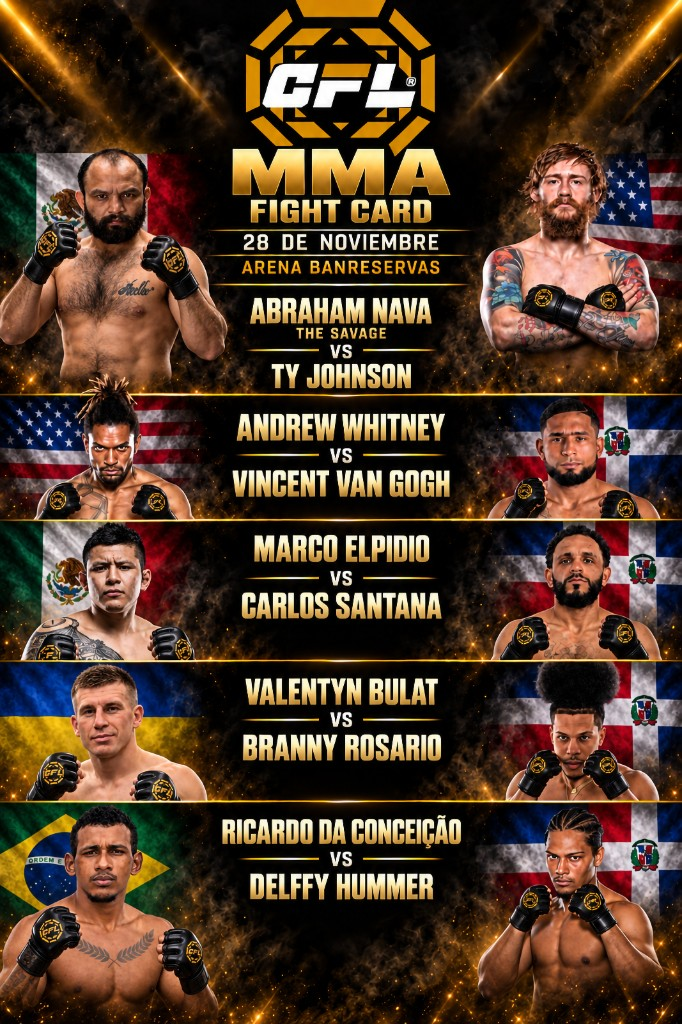
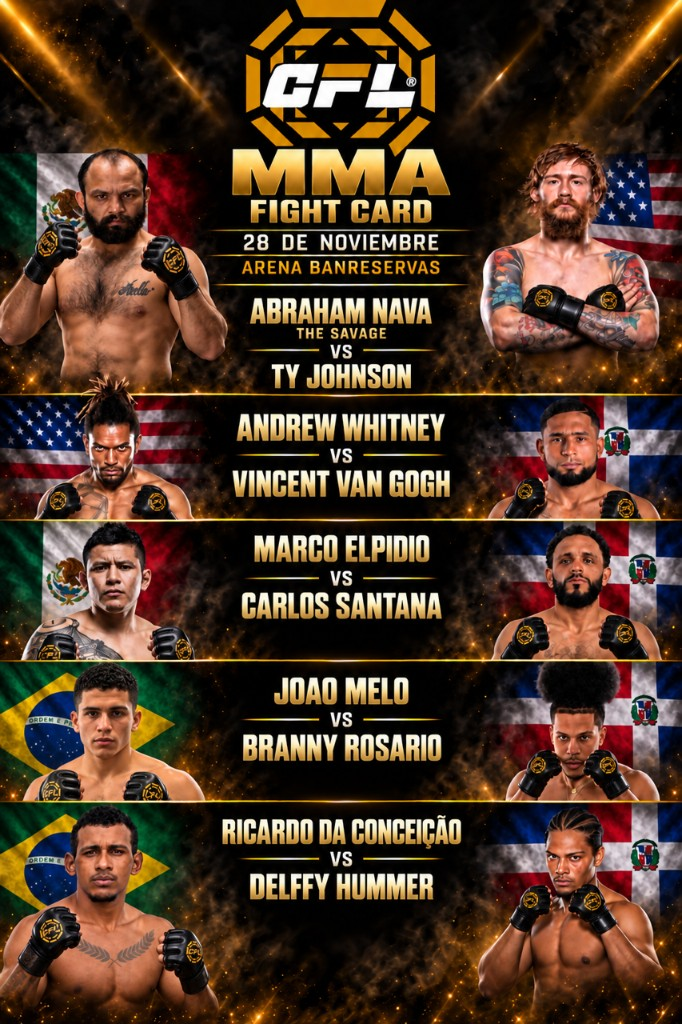
Refresh the public roster and MMA fight cards.
Drop Thomas, Elvis, and Valentyn; add Tommy Hyde, Kurt Scoby, and João Victor Melo; and swap in the updated MMA cards.

diff --git a/fighters-data.js b/fighters-data.js
@@ -31,38 +31,6 @@ window.CFL_FIGHTERS = {
     ],
   },
 
-  "thomas-blumenfeld": {
-    id: "thomas-blumenfeld",
-    name: "Thomas Blumenfeld",
-    namePlain: "Thomas Blumenfeld",
-    nickname: "The Bullet",
-    sport: { es: "Boxeo", en: "Boxing" },
-    country: { es: "Canadá", en: "Canada" },
-    countryCode: "ca",
-    based: { es: "Springfield, Vermont / Canadá", en: "Springfield, Vermont / Canada" },
-    image: "assets/thomas-blumenfeld.png?v=6",
-    record: "12-0-0",
-    division: { es: "Ligero / Superligero", en: "Lightweight / Light welterweight" },
-    height: "—",
-    reach: "—",
-    stance: { es: "Zurdo", en: "Southpaw" },
-    koRate: "83%",
-    debut: "2022-06-11",
-    sourceLabel: "BoxRec",
-    sourceUrl: "https://boxrec.com/en/box-pro/864573",
-    bio: {
-      es: "Prospecto canadiense invicto con plata en los Juegos de la Commonwealth 2018. Southpaw con alto porcentaje de nocauts y proyección internacional hacia la noche CFL en Santo Domingo.",
-      en: "Undefeated Canadian prospect and 2018 Commonwealth Games silver medalist. A southpaw with a high knockout rate, lined up for CFL’s Santo Domingo night.",
-    },
-    recent: [
-      { result: "W", opponent: "Willmank Canonico Brito", event: "Mohegan Sun Pocono Downs", date: "2026-03", method: "Decision" },
-      { result: "W", opponent: "Cristian Ruben Mino", event: "Mohegan Fall Brawl", date: "2025-11", method: "KO/TKO · R1" },
-      { result: "W", opponent: "Julio Rosa", event: "Carteret, NJ", date: "2025-09", method: "KO/TKO · R4" },
-      { result: "W", opponent: "Christopher Rodriguez", event: "Carteret, NJ", date: "2025-04", method: "KO/TKO · R3" },
-      { result: "W", opponent: "Frankie Sanchez Jr", event: "2300 Arena, Philadelphia", date: "2025-03", method: "KO/TKO · R2" },
-    ],
-  },
-
   "vincent-vangogh": {
     id: "vincent-vangogh",
     name: "Vincent “El Cuco” Van Gogh",
@@ -282,34 +250,35 @@ window.CFL_FIGHTERS = {
     ],
   },
 
-  "valentyn-bulat": {
-    id: "valentyn-bulat",
-    name: "Valentyn Bulat",
-    namePlain: "Valentyn Bulat",
-    nickname: "",
+  "joao-victor-melo": {
+    id: "joao-victor-melo",
+    name: "João Victor “Marroto” Melo",
+    namePlain: "João Victor Melo",
+    nickname: "Marroto",
     sport: { es: "MMA", en: "MMA" },
-    country: { es: "Ucrania", en: "Ukraine" },
-    countryCode: "ua",
-    based: { es: "Abbotsford, Columbia Británica", en: "Abbotsford, British Columbia" },
-    image: "assets/valentyn-bulat.jpg?v=1",
-    record: "4-0-0",
+    country: { es: "Brasil", en: "Brazil" },
+    countryCode: "br",
+    based: { es: "Belém, Pará, Brasil", en: "Belém, Pará, Brazil" },
+    image: "assets/joao-victor-melo.jpg?v=1",
+    record: "5-4-0",
     division: { es: "Peso gallo", en: "Bantamweight" },
-    height: "—",
+    height: "5′8″ / 172 cm",
     reach: "—",
     stance: { es: "Ortodoxo", en: "Orthodox" },
-    koRate: "25%",
-    debut: "2025",
+    koRate: "0%",
+    debut: "2022-10-15",
     sourceLabel: "Tapology",
-    sourceUrl: "https://www.tapology.com/fightcenter/fighters/325471-valentyn-bulat",
+    sourceUrl: "https://www.tapology.com/fightcenter/fighters/375732-joao-victor-melo-marroto",
     bio: {
-      es: "Peso gallo ucraniano invicto, con base en Canadá. Cuatro victorias profesionales y rival de Branny Rosario en la premiere CFL.",
-      en: "Undefeated Ukrainian bantamweight based in Canada. Four professional wins, and Branny Rosario’s opponent at the CFL premiere.",
+      es: "Peso gallo brasileño de Team Figueiredo en Belém. Cinco victorias profesionales, todas por sumisión, y rival de Branny Rosario en la premiere CFL.",
+      en: "Brazilian bantamweight out of Team Figueiredo in Belém. Five professional wins, all by submission, and Branny Rosario’s opponent at the CFL premiere.",
     },
     recent: [
-      { result: "W", opponent: "Nichollas Pestili", event: "Samourai MMA 21", date: "2026-09-04", method: "TKO · R1" },
-      { result: "W", opponent: "Arturo Reyes Castañeda", event: "BFL 85", date: "2025-10-16", method: "Decision · R3" },
-      { result: "W", opponent: "Jordan Meloche", event: "BFL 83", date: "2025-04-17", method: "Submission · R1" },
-      { result: "W", opponent: "James Torres", event: "BFL 82", date: "2025-01-23", method: "Decision · R3" },
+      { result: "L", opponent: "Cláudio Meireles", event: "LFA 229", date: "2026-03-27", method: "Decision · R3" },
+      { result: "W", opponent: "Marco Alvarez", event: "FFC 101", date: "2026-02-12", method: "Submission · R1" },
+      { result: "L", opponent: "Martin Mansilla", event: "Inka FC 50", date: "2025-06-26", method: "Decision · R3" },
+      { result: "L", opponent: "Alexander Chavez", event: "Inka FC 49", date: "2025-04-24", method: "Decision · R3" },
+      { result: "L", opponent: "João Vitor Cavalcante", event: "Jungle Fight 134", date: "2025-01-18", method: "TKO · R2" },
     ],
   },
 
@@ -345,6 +314,70 @@ window.CFL_FIGHTERS = {
     ],
   },
 
+  "tommy-hyde": {
+    id: "tommy-hyde",
+    name: "Tommy “The Governor” Hyde",
+    namePlain: "Tommy Hyde",
+    nickname: "The Governor",
+    sport: { es: "Boxeo", en: "Boxing" },
+    country: { es: "Irlanda", en: "Ireland" },
+    countryCode: "ie",
+    based: { es: "Cork, Irlanda", en: "Cork, Ireland" },
+    image: "assets/tommy-hyde.jpg?v=1",
+    record: "16-0-0",
+    division: { es: "Súper mediano", en: "Super middleweight" },
+    height: "6′4″ / 193 cm",
+    reach: "—",
+    stance: { es: "Ortodoxo", en: "Orthodox" },
+    koRate: "69%",
+    debut: "2022-12-01",
+    sourceLabel: "BoxRec",
+    sourceUrl: "https://boxrec.com/en/box-pro/924045",
+    bio: {
+      es: "Super mediano irlandés invicto de Cork, conocido como “The Governor”. Dieciséis victorias profesionales y campeón celta de la BUI, con proyección internacional hacia la noche CFL.",
+      en: "Undefeated Irish super middleweight from Cork, known as “The Governor.” Sixteen professional wins and a BUI Celtic champion, lined up for CFL’s Santo Domingo night.",
+    },
+    recent: [
+      { result: "W", opponent: "Vaughn Williams", event: "Santa Monica Pier", date: "2026-08-22", method: "KO/TKO · R4" },
+      { result: "W", opponent: "Mick Hall", event: "GUC Parochial Arena, Cork", date: "2026-04-18", method: "KO/TKO · R3" },
+      { result: "W", opponent: "Paul Valenzuela", event: "GUC Parochial Arena, Cork", date: "2025-11", method: "KO/TKO · R2" },
+      { result: "W", opponent: "Patrick Allotey", event: "Down & Dirty XVIII, Melrose", date: "2025-09-20", method: "Decision · R8" },
+      { result: "W", opponent: "Vinicius de Barros", event: "Boxing Dreams VIII, Villarreal", date: "2025-06-28", method: "Decision · R8" },
+    ],
+  },
+
+  "kurt-scoby": {
+    id: "kurt-scoby",
+    name: "Kurt Scoby",
+    namePlain: "Kurt Scoby",
+    nickname: "",
+    sport: { es: "Boxeo", en: "Boxing" },
+    country: { es: "Estados Unidos", en: "United States" },
+    countryCode: "us",
+    based: { es: "Springfield, Massachusetts", en: "Springfield, Massachusetts" },
+    image: "assets/kurt-scoby.jpg?v=1",
+    record: "19-2-0",
+    division: { es: "Súper ligero", en: "Super lightweight" },
+    height: "5′9″ / 175 cm",
+    reach: "69″ / 175 cm",
+    stance: { es: "Ortodoxo", en: "Orthodox" },
+    koRate: "89%",
+    debut: "2020-09-26",
+    sourceLabel: "BoxRec",
+    sourceUrl: "https://boxrec.com/en/box-pro/963639",
+    bio: {
+      es: "Superligero estadounidense de Springfield, Massachusetts. Diecinueve victorias profesionales —diecisiete por nocaut— y contendiente reciente por el título intercontinental WBO.",
+      en: "American super lightweight out of Springfield, Massachusetts. Nineteen professional wins —seventeen by knockout— and a recent WBO Inter-Continental title challenger.",
+    },
+    recent: [
+      { result: "W", opponent: "Cristian Perez Hernandez", event: "Wilkes-Barre, Pennsylvania", date: "2026-03-07", method: "KO · R1" },
+      { result: "L", opponent: "Adam Azim", event: "Tottenham Hotspur Stadium", date: "2025-11-15", method: "TKO · R12" },
+      { result: "W", opponent: "Alex Martin", event: "Boxing Insider 18, Sony Hall", date: "2025-09-19", method: "TKO · R8" },
+      { result: "W", opponent: "Haskell Rhodes", event: "OTX 14, 2300 Arena", date: "2025-06-13", method: "RTD · R6" },
+      { result: "W", opponent: "Cesar Villarraga", event: "OTX 12, Sycuan Casino", date: "2025-03-22", method: "KO · R5" },
+    ],
+  },
+
   "miguel-arias": {
     id: "miguel-arias",
     name: "Miguel Angel “Brazo” Arias",
@@ -374,38 +407,6 @@ window.CFL_FIGHTERS = {
       { result: "W", opponent: "Cristian Camilo Montero", event: "Club Mauricio Báez", date: "2025-03", method: "KO/TKO · R6" },
       { result: "W", opponent: "Luis Enrique Reyes Acatitla", event: "Pabellón de Karate, Centro Olímpico", date: "2024-12", method: "KO/TKO · R4" },
       { result: "W", opponent: "Leonardo Espinal", event: "Santo Domingo", date: "2024-10", method: "KO/TKO · R5" },
-    ],
-  },
-
-  "elvis-del-castillo": {
-    id: "elvis-del-castillo",
-    name: "Elvis Del Castillo",
-    namePlain: "Elvis Del Castillo",
-    nickname: "",
-    sport: { es: "Boxeo", en: "Boxing" },
-    country: { es: "República Dominicana", en: "Dominican Republic" },
-    countryCode: "do",
-    based: { es: "Santo Domingo, República Dominicana", en: "Santo Domingo, Dominican Republic" },
-    image: "assets/elvis-del-castillo.jpg?v=1",
-    record: "6-0-1",
-    division: { es: "Peso wélter", en: "Welterweight" },
-    height: "—",
-    reach: "—",
-    stance: { es: "—", en: "—" },
-    koRate: "83%",
-    debut: "2025-11-22",
-    sourceLabel: "BoxRec",
-    sourceUrl: "https://boxrec.com/en/box-pro/1219378",
-    bio: {
-      es: "Boxeador dominicano invicto de peso wélter. Seis victorias profesionales —cinco por nocaut— y un empate, y parte del talento local CFL.",
-      en: "Undefeated Dominican welterweight. Six professional wins —five by knockout— plus one draw, and part of CFL’s local talent.",
-    },
-    recent: [
-      { result: "W", opponent: "Juan Carlos Salazar Jose", event: "Dominican Fight Night, Coliseo Carlos Teo Cruz", date: "2026-09-11", method: "TKO · R4" },
-      { result: "D", opponent: "Anfenni Diaz", event: "Coliseo Carlos Teo Cruz", date: "2026-05-23", method: "Draw · R6" },
-      { result: "W", opponent: "Angel Apolinar Elena Perez", event: "Coco Locos, Sosúa", date: "2026-03-28", method: "TKO · R2" },
-      { result: "W", opponent: "Marco Acevedo", event: "Coliseo Carlos Teo Cruz", date: "2026-02-21", method: "KO/TKO · R2" },
-      { result: "W", opponent: "Aris Rosario Fabian", event: "La Batalla de Santiago 7", date: "2025-12-14", method: "KO/TKO · R1" },
     ],
   },
 };

diff --git a/index.html b/index.html
@@ -77,7 +77,7 @@
           <div class="hero-caption" data-i18n="hero1_caption">CFL Fight Night · Arena Banreservas</div>
         </article>
 
-        <article class="hero-slide hero-slide-fightcard" style="--hero-image: url('assets/cfl-mma-fightcard-wide.jpg?v=1');">
+        <article class="hero-slide hero-slide-fightcard" style="--hero-image: url('assets/cfl-mma-fightcard-wide.jpg?v=2');">
           <div class="hero-shade"></div>
           <div class="hero-content reveal">
             <p class="eyebrow" data-i18n="hero2_eyebrow">Cartelera MMA</p>
@@ -146,7 +146,7 @@
 
       <article class="event-card reveal">
         <div class="event-card-media">
-          <img src="assets/cfl-mma-fightcard.jpg?v=1" alt="CFL MMA fight card — 28 noviembre 2026, Arena Banreservas" loading="lazy" />
+          <img src="assets/cfl-mma-fightcard.jpg?v=2" alt="CFL MMA fight card — 28 noviembre 2026, Arena Banreservas" loading="lazy" />
           <div class="event-date-badge">
             <span>28</span>
             <strong>nov</strong>
@@ -250,11 +250,11 @@
             </div>
           </a>
 
-          <a class="fighter-card" href="fighter.html?id=valentyn-bulat">
-            <img src="assets/valentyn-bulat.jpg?v=1" alt="Valentyn Bulat" loading="lazy" />
+          <a class="fighter-card" href="fighter.html?id=joao-victor-melo">
+            <img src="assets/joao-victor-melo.jpg?v=1" alt="Joao Victor Melo" loading="lazy" />
             <div class="fighter-overlay">
-              <span data-i18n="fighter_valentyn">MMA · Ucrania</span>
-              <h3>Valentyn Bulat</h3>
+              <span data-i18n="fighter_joao">MMA · Brasil</span>
+              <h3>João Victor “Marroto” Melo</h3>
             </div>
           </a>
 
@@ -271,11 +271,19 @@
       <div class="roster-group reveal">
         <h3 class="roster-group-title" data-i18n="roster_boxing">Boxeo</h3>
         <div class="fighter-grid">
-          <a class="fighter-card" href="fighter.html?id=thomas-blumenfeld">
-            <img src="assets/thomas-blumenfeld.png?v=6" alt="Thomas Blumenfeld" loading="lazy" />
+          <a class="fighter-card" href="fighter.html?id=tommy-hyde">
+            <img src="assets/tommy-hyde.jpg?v=1" alt="Tommy Hyde" loading="lazy" />
             <div class="fighter-overlay">
-              <span data-i18n="fighter_thomas">Boxeo · Canadá</span>
-              <h3>Thomas Blumenfeld</h3>
+              <span data-i18n="fighter_tommy">Boxeo · Irlanda</span>
+              <h3>Tommy “The Governor” Hyde</h3>
+            </div>
+          </a>
+
+          <a class="fighter-card" href="fighter.html?id=kurt-scoby">
+            <img src="assets/kurt-scoby.jpg?v=1" alt="Kurt Scoby" loading="lazy" />
+            <div class="fighter-overlay">
+              <span data-i18n="fighter_kurt">Boxeo · Estados Unidos</span>
+              <h3>Kurt Scoby</h3>
             </div>
           </a>
 
@@ -284,14 +292,6 @@
             <div class="fighter-overlay">
               <span data-i18n="fighter_miguel">Boxeo · República Dominicana</span>
               <h3>Miguel Angel “Brazo” Arias</h3>
-            </div>
-          </a>
-
-          <a class="fighter-card" href="fighter.html?id=elvis-del-castillo">
-            <img src="assets/elvis-del-castillo.jpg?v=1" alt="Elvis Del Castillo" loading="lazy" />
-            <div class="fighter-overlay">
-              <span data-i18n="fighter_elvis">Boxeo · República Dominicana</span>
-              <h3>Elvis Del Castillo</h3>
             </div>
           </a>
         </div>

diff --git a/i18n.js b/i18n.js
@@ -68,17 +68,17 @@ const CFL_I18N = {
     roster_mma: "MMA",
     roster_boxing: "Boxeo",
     fighter_ty: "MMA · Estados Unidos",
-    fighter_thomas: "Boxeo · Canadá",
     fighter_vincent: "MMA · República Dominicana",
     fighter_miguel: "Boxeo · República Dominicana",
+    fighter_tommy: "Boxeo · Irlanda",
+    fighter_kurt: "Boxeo · Estados Unidos",
     fighter_branny: "MMA · República Dominicana",
     fighter_delffy: "MMA · República Dominicana",
     fighter_carlos: "MMA · República Dominicana",
     fighter_andrew: "MMA · Estados Unidos",
-    fighter_elvis: "Boxeo · República Dominicana",
     fighter_abraham: "MMA · México",
     fighter_marco: "MMA · México",
-    fighter_valentyn: "MMA · Ucrania",
+    fighter_joao: "MMA · Brasil",
     fighter_ricardo: "MMA · Brasil",
     brand_eyebrow: "CFL Santo Domingo Premiere",
     brand_title: "28 de noviembre en Santo Domingo",
@@ -351,17 +351,17 @@ const CFL_I18N = {
     roster_mma: "MMA",
     roster_boxing: "Boxing",
     fighter_ty: "MMA · United States",
-    fighter_thomas: "Boxing · Canada",
     fighter_vincent: "MMA · Dominican Republic",
     fighter_miguel: "Boxing · Dominican Republic",
+    fighter_tommy: "Boxing · Ireland",
+    fighter_kurt: "Boxing · United States",
     fighter_branny: "MMA · Dominican Republic",
     fighter_delffy: "MMA · Dominican Republic",
     fighter_carlos: "MMA · Dominican Republic",
     fighter_andrew: "MMA · United States",
-    fighter_elvis: "Boxing · Dominican Republic",
     fighter_abraham: "MMA · Mexico",
     fighter_marco: "MMA · Mexico",
-    fighter_valentyn: "MMA · Ukraine",
+    fighter_joao: "MMA · Brazil",
     fighter_ricardo: "MMA · Brazil",
     brand_eyebrow: "CFL Santo Domingo Premiere",
     brand_title: "November 28 in Santo Domingo",

diff --git a/tickets.html b/tickets.html
@@ -62,7 +62,7 @@
 
   <main id="main" class="tickets-main">
     <section class="tickets-hero">
-      <div class="tickets-hero-bg" style="--hero-image: url('assets/thomas-blumenfeld-venue.png');"></div>
+      <div class="tickets-hero-bg" style="--hero-image: url('assets/cfl-arena-boxing.png');"></div>
       <div class="tickets-hero-shade"></div>
       <div class="tickets-panel reveal is-visible">
         <p class="eyebrow" data-i18n="tickets_eyebrow">CFL Santo Domingo premiere</p>
